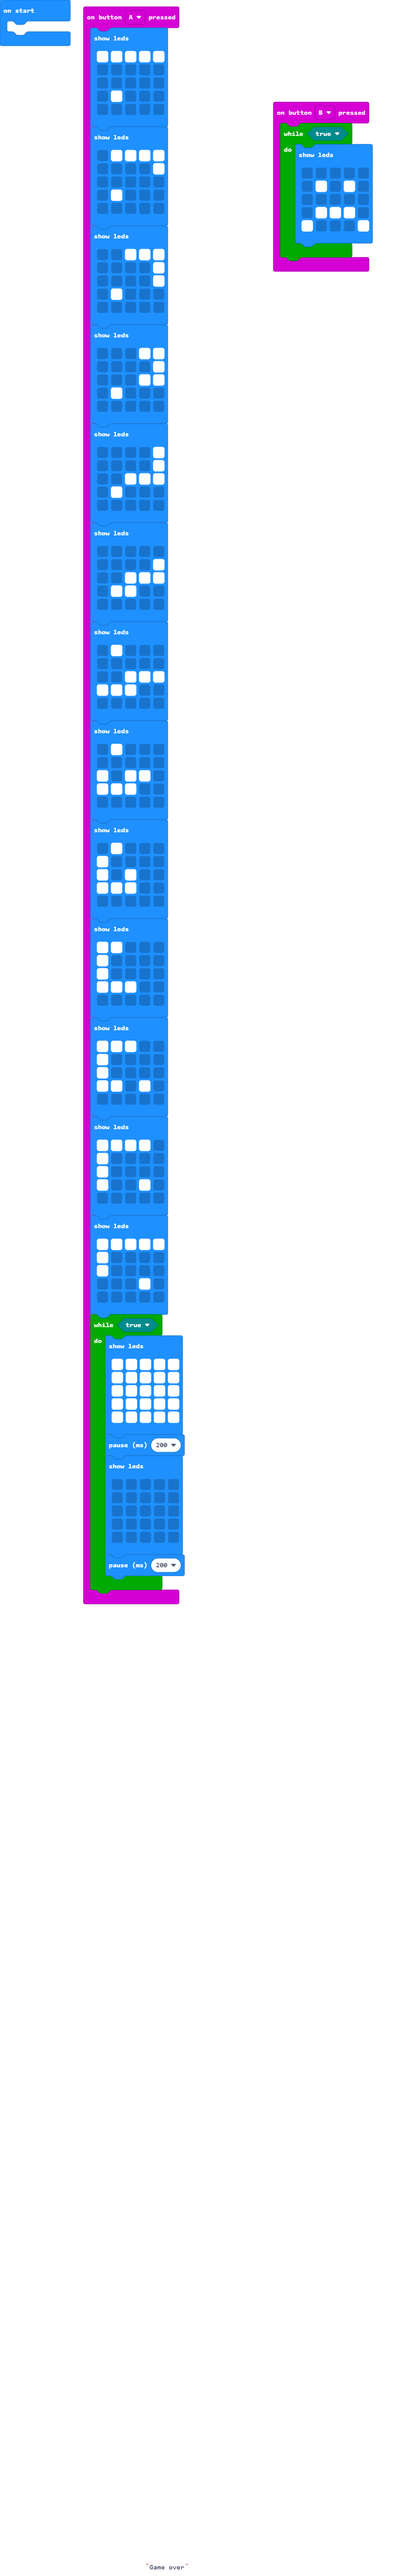
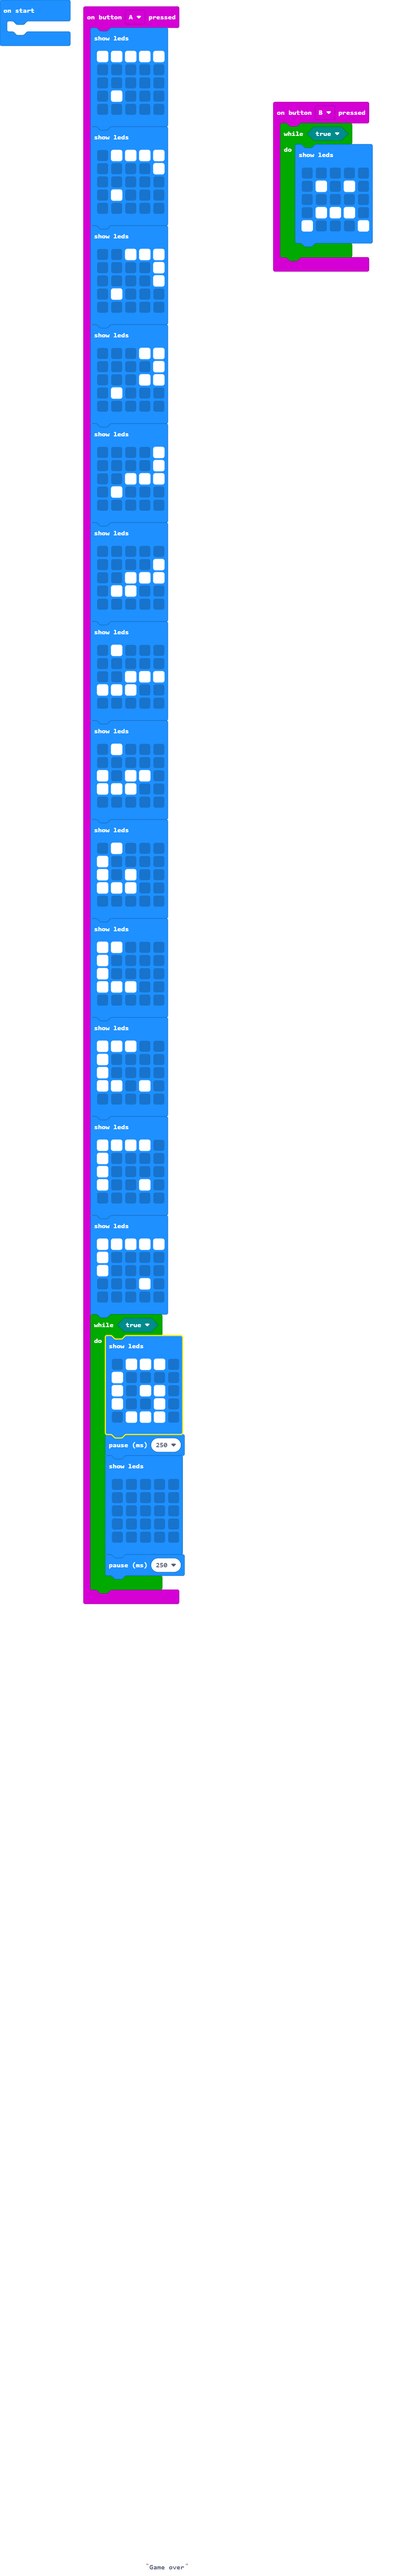
Game over shows a blinking G nonstop, delay has been changed to 250 ms

Changed region(s): [[0.244, 0.5, 0.4574, 0.5625]]

diff --git a/main.ts b/main.ts
@@ -1,4 +1,4 @@
-input.onButtonPressed(Button.A, function on_button_pressed_a() {
+input.onButtonPressed(Button.A, function () {
     basic.showLeds(`
         # # # # #
         . . . . .
@@ -92,13 +92,13 @@ input.onButtonPressed(Button.A, function on_button_pressed_a() {
         `)
     while (true) {
         basic.showLeds(`
-            # # # # #
-            # # # # #
-            # # # # #
-            # # # # #
-            # # # # #
+            . # # # .
+            # . . . .
+            # . # # .
+            # . . # .
+            . # # # .
             `)
-        basic.pause(200)
+        basic.pause(250)
         basic.showLeds(`
             . . . . .
             . . . . .
@@ -106,10 +106,10 @@ input.onButtonPressed(Button.A, function on_button_pressed_a() {
             . . . . .
             . . . . .
             `)
-        basic.pause(200)
+        basic.pause(250)
     }
 })
-input.onButtonPressed(Button.B, function on_button_pressed_b() {
+input.onButtonPressed(Button.B, function () {
     while (true) {
         basic.showLeds(`
             . . . . .
